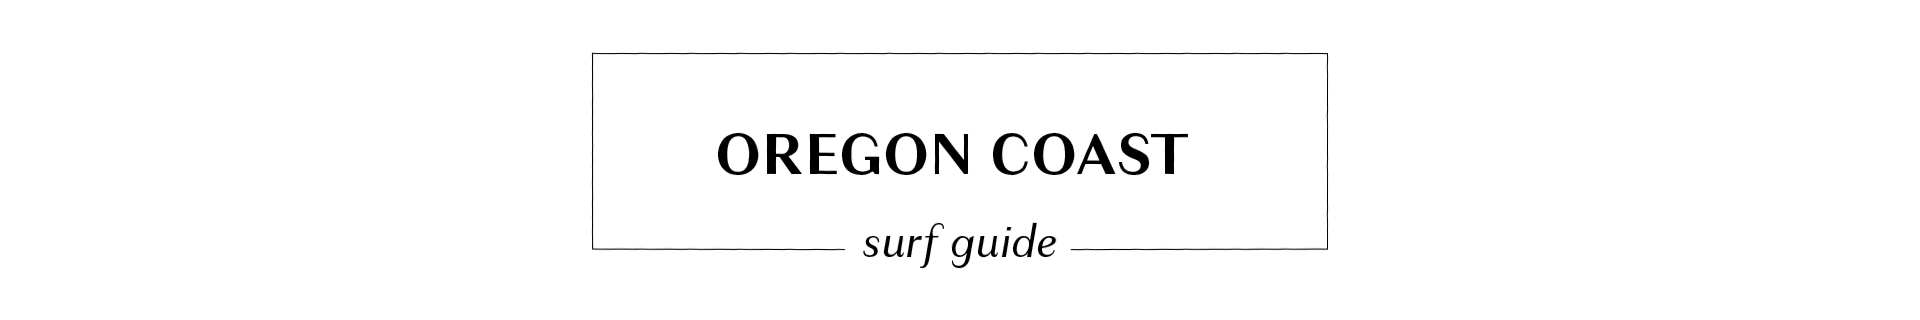
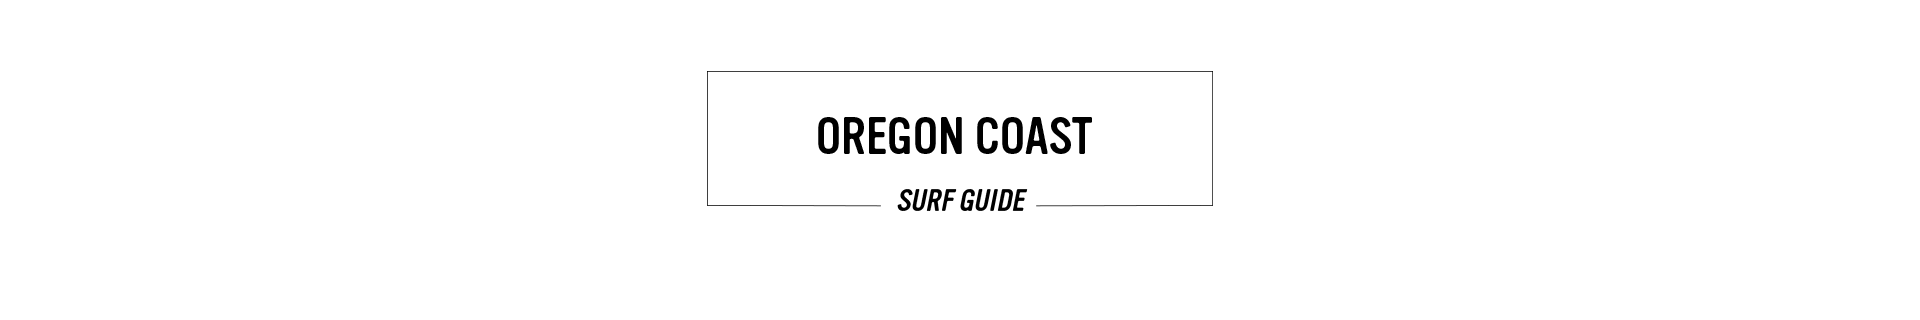
Yep!!

diff --git a/stylesheet.css b/stylesheet.css
@@ -48,15 +48,16 @@ p {
 }
 
 h1 {
-  font-family: europa, sans-serif;
-  font-weight: 700;
+  
+  font-family: vinyl, sans-serif;
+  font-weight: 400;
   font-style: normal;
   font-size: 34px;
 }
 
 h4 {
-  font-family: europa, sans-serif;
-  font-weight: 700;
+  font-family: vinyl, sans-serif;
+  font-weight: 400;
   font-style: normal;
   font-size: 34px;
   line-height: 100%;
@@ -66,16 +67,16 @@ h4 {
 
 
 h3 {
-  font-family: europa, sans-serif;
-  font-weight: 300;
+  font-family: vinyl, sans-serif;
+  font-weight: 400;
   font-style: normal;
   font-size: 14px;
   line-height: 500%;
 }
 
 h5 {
-  font-family: europa, sans-serif;
-  font-weight: 300;
+  font-family: vinyl, sans-serif;
+  font-weight: 400;
   font-style: normal;
   font-size: 25px;
   color: #9d6b36;
@@ -83,10 +84,10 @@ h5 {
 }
 
 h6 {
-  font-family: europa, sans-serif;
-  font-weight: 300;
+  font-family: vinyl, sans-serif;
+  font-weight: 400;
   font-style: normal;
-  font-size: 18px;
+  font-size: 22px;
 }
 
 .grid-container-index {
@@ -348,7 +349,6 @@ div.hr1 {
   object-fit: cover;
   width: 4fr;
   height: 6fr;
-  opacity: 80%;
 }
 
 .northern-1 {

diff --git a/index.html b/index.html
@@ -15,8 +15,6 @@ media="screen"/>
 
 <link rel="stylesheet" href="https://use.typekit.net/ihg6vkk.css">
 
-<link rel="stylesheet" href="https://fonts.googleapis.com/css?family=Playfair+Display&display=swap">
-
 </head>
 
 <body>
@@ -38,8 +36,9 @@ media="screen"/>
       class="responsive"> </div>
 
   <div class="index-header">
-      <h1>Surfer's Guide - Oregon Coast</h1>
-   </div>
+      <img src="images/oregoncoast.png"
+      alt="logo"
+      class="responsive"></div>
   
 <!-- Northern Coast Text -->
 

diff --git a/northern.html b/northern.html
@@ -10,6 +10,8 @@
 
     <link rel="stylesheet" 
     href="https://use.typekit.net/ihg6vkk.css">
+
+    <link rel="stylesheet" href="https://use.typekit.net/ihg6vkk.css">
     
 </head>
 <body>
